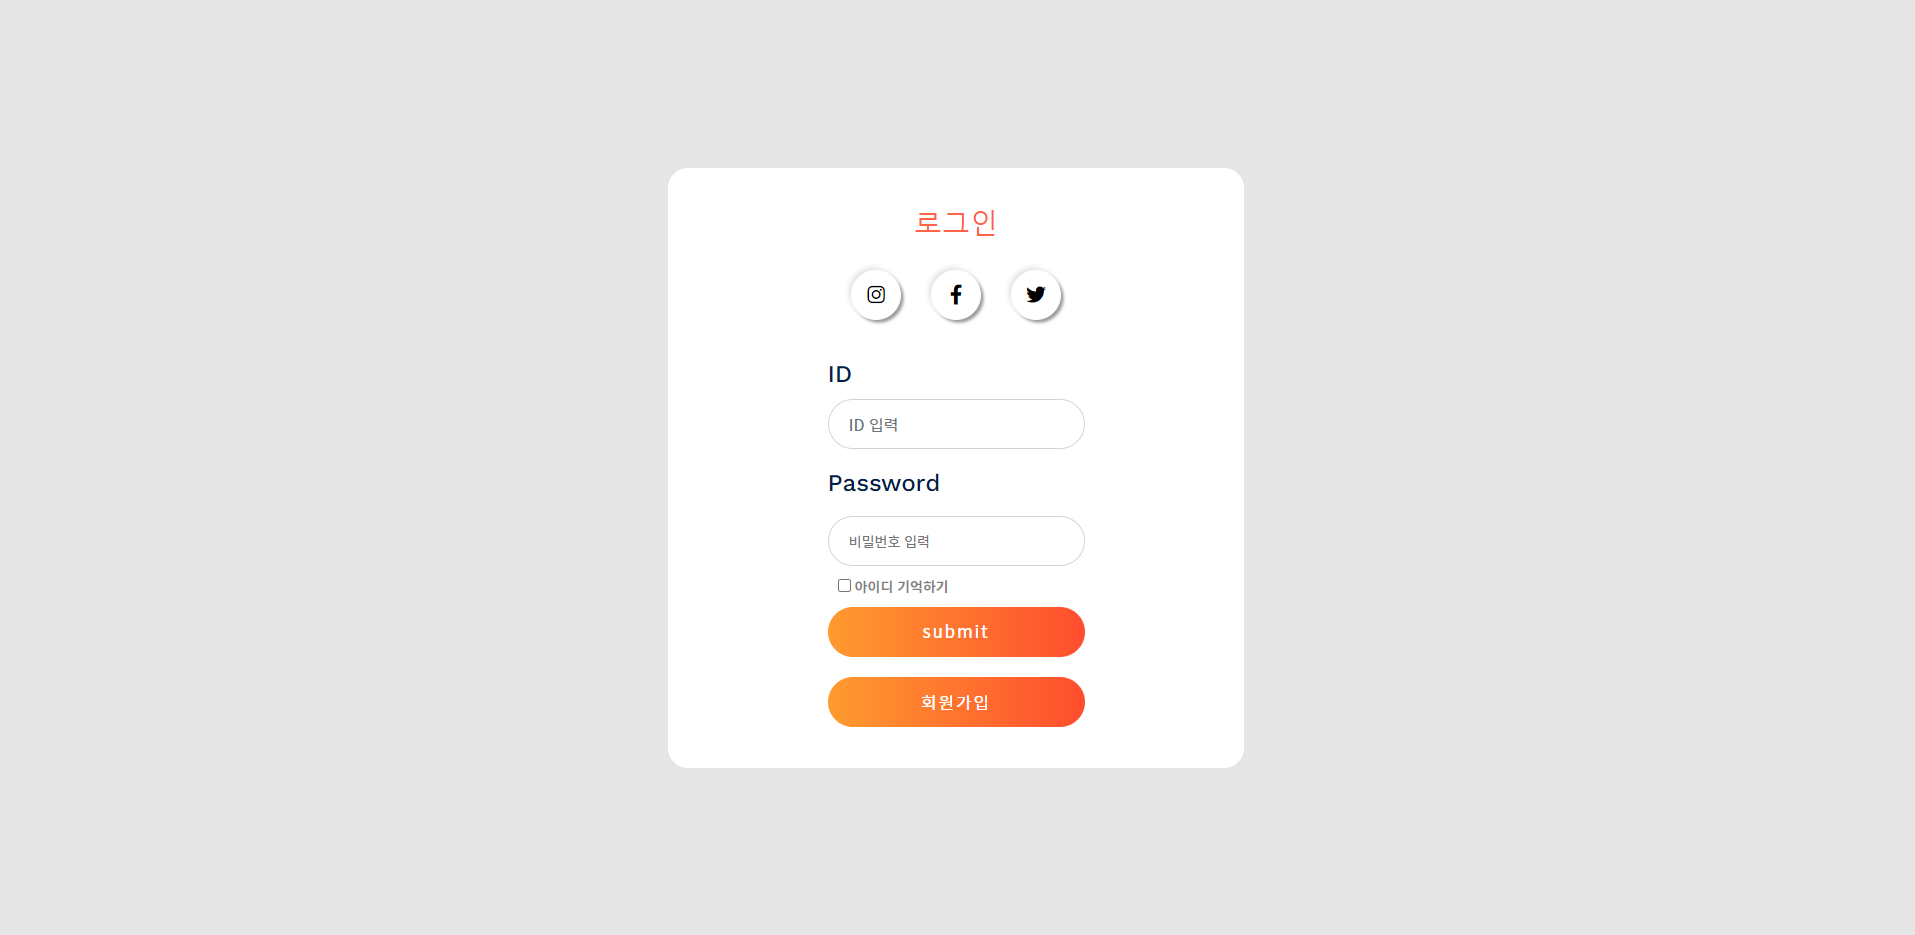
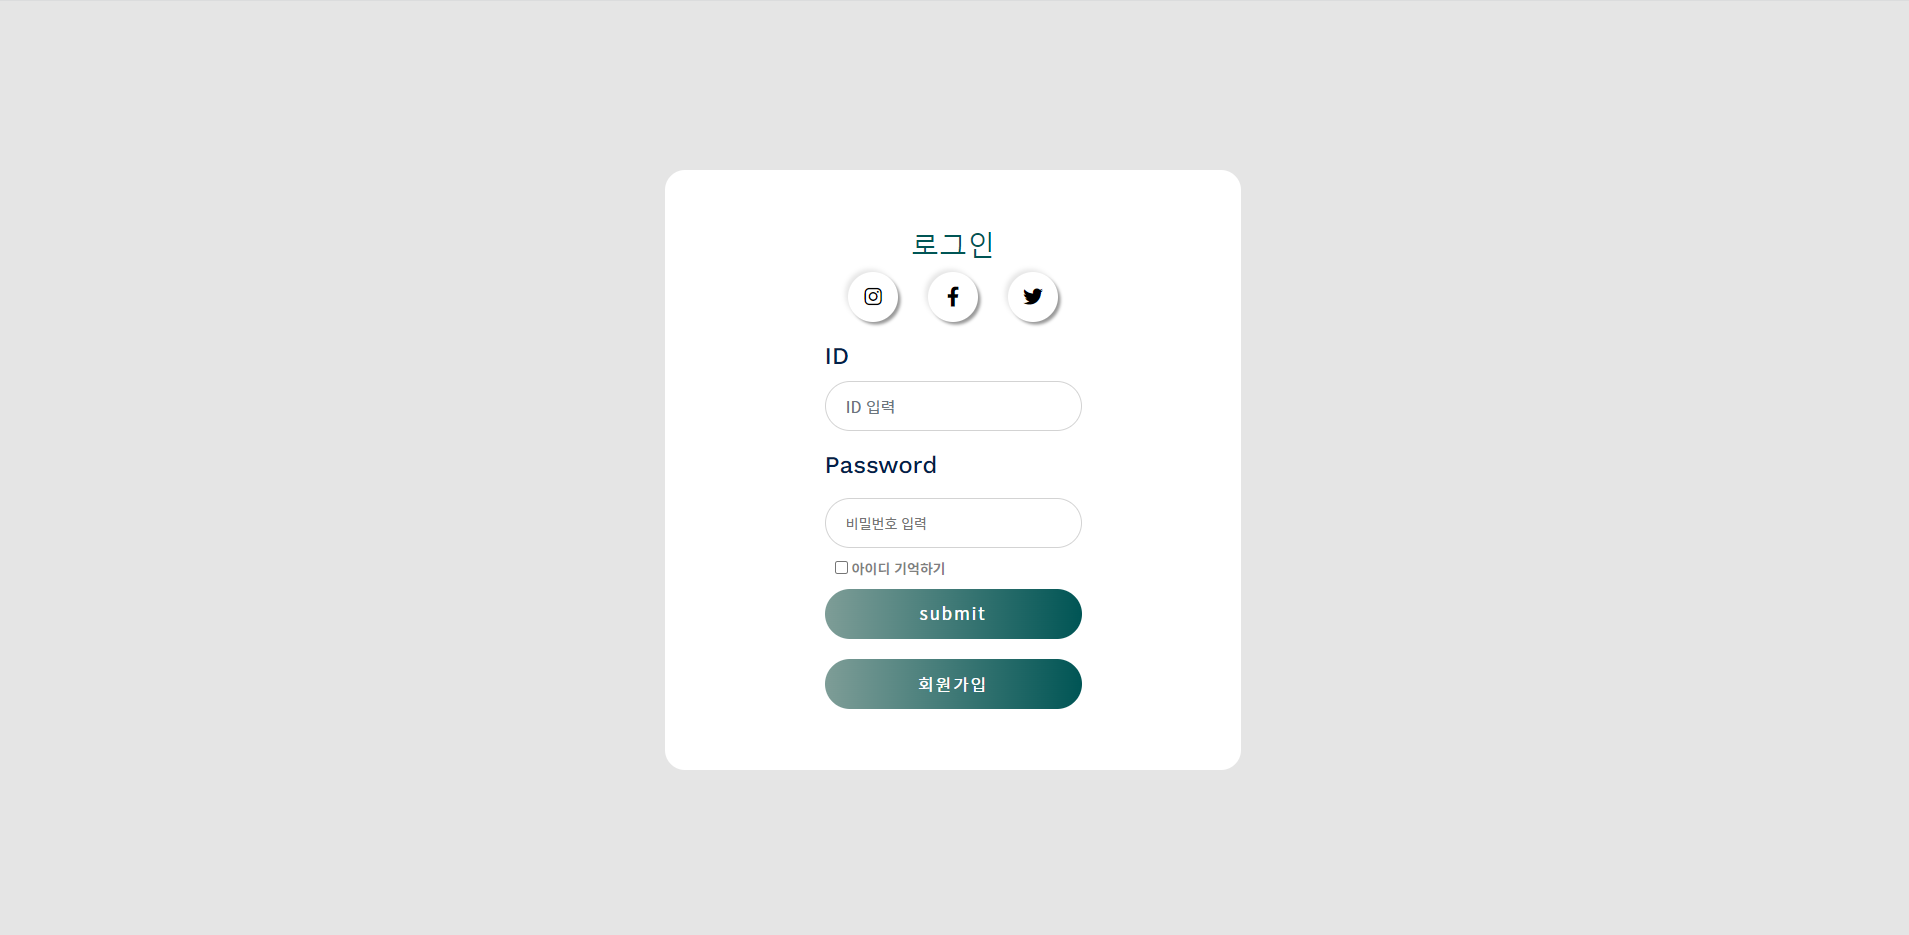
Modify makdId.css

diff --git a/src/main/resources/static/css/login.css b/src/main/resources/static/css/login.css
@@ -35,11 +35,11 @@
   }
   
   h2 {
-    color: tomato;
+    color: #005555;
     font-size: 2em;
   }
   .login_sns {
-    padding: 20px;
+    /*padding: 20px;*/
     display: flex;
   }
   
@@ -101,7 +101,7 @@
   }
   
   .submit {
-    margin-top: 50px;
+
     width: 100%;
   }
   .submit input {
@@ -110,7 +110,7 @@
     border: 0;
     outline: none;
     border-radius: 40px;
-    background: linear-gradient(to left, rgb(255, 77, 46), rgb(255, 155, 47));
+    background: linear-gradient(to left, #005555, rgb(126 157 151));
     color: white;
     font-size: 1.2em;
     letter-spacing: 2px;
@@ -129,7 +129,7 @@
     border: 0;
     outline: none;
     border-radius: 40px;
-    background: linear-gradient(to left, rgb(255, 77, 46), rgb(255, 155, 47));
+    background: linear-gradient(to left, #005555, rgb(126 157 151));
     color: white;
     font-size: 1.2em;
     letter-spacing: 2px;
@@ -141,7 +141,7 @@
     border: 0;
     outline: none;
     border-radius: 40px;
-    background: linear-gradient(to left, rgb(255, 77, 46), rgb(255, 155, 47));
+    background: linear-gradient(to left, #005555, rgb(126 157 151));
     color: white;
     font-size: 1.2em;
     letter-spacing: 2px;

diff --git a/src/main/resources/static/css/makeId.css b/src/main/resources/static/css/makeId.css
@@ -26,6 +26,7 @@
   .joinForm h2 {
     text-align: center;
     margin: 30px;
+    color:#005555;
   }
   
   .textForm {
@@ -101,8 +102,9 @@
     transform: translateX(-50%);
     margin-bottom: 40px;
     width:80%;
-    height:40px;
-    background: linear-gradient(125deg,#81ecec,#6c5ce7,#81ecec);
+    /* height:40px; */
+    /*background: linear-gradient(125deg,#81ecec,#6c5ce7,#81ecec);*/
+    background: linear-gradient(to left, #005555, rgb(126 157 151));
     background-position: left;
     background-size: 200%;
     color:white;
